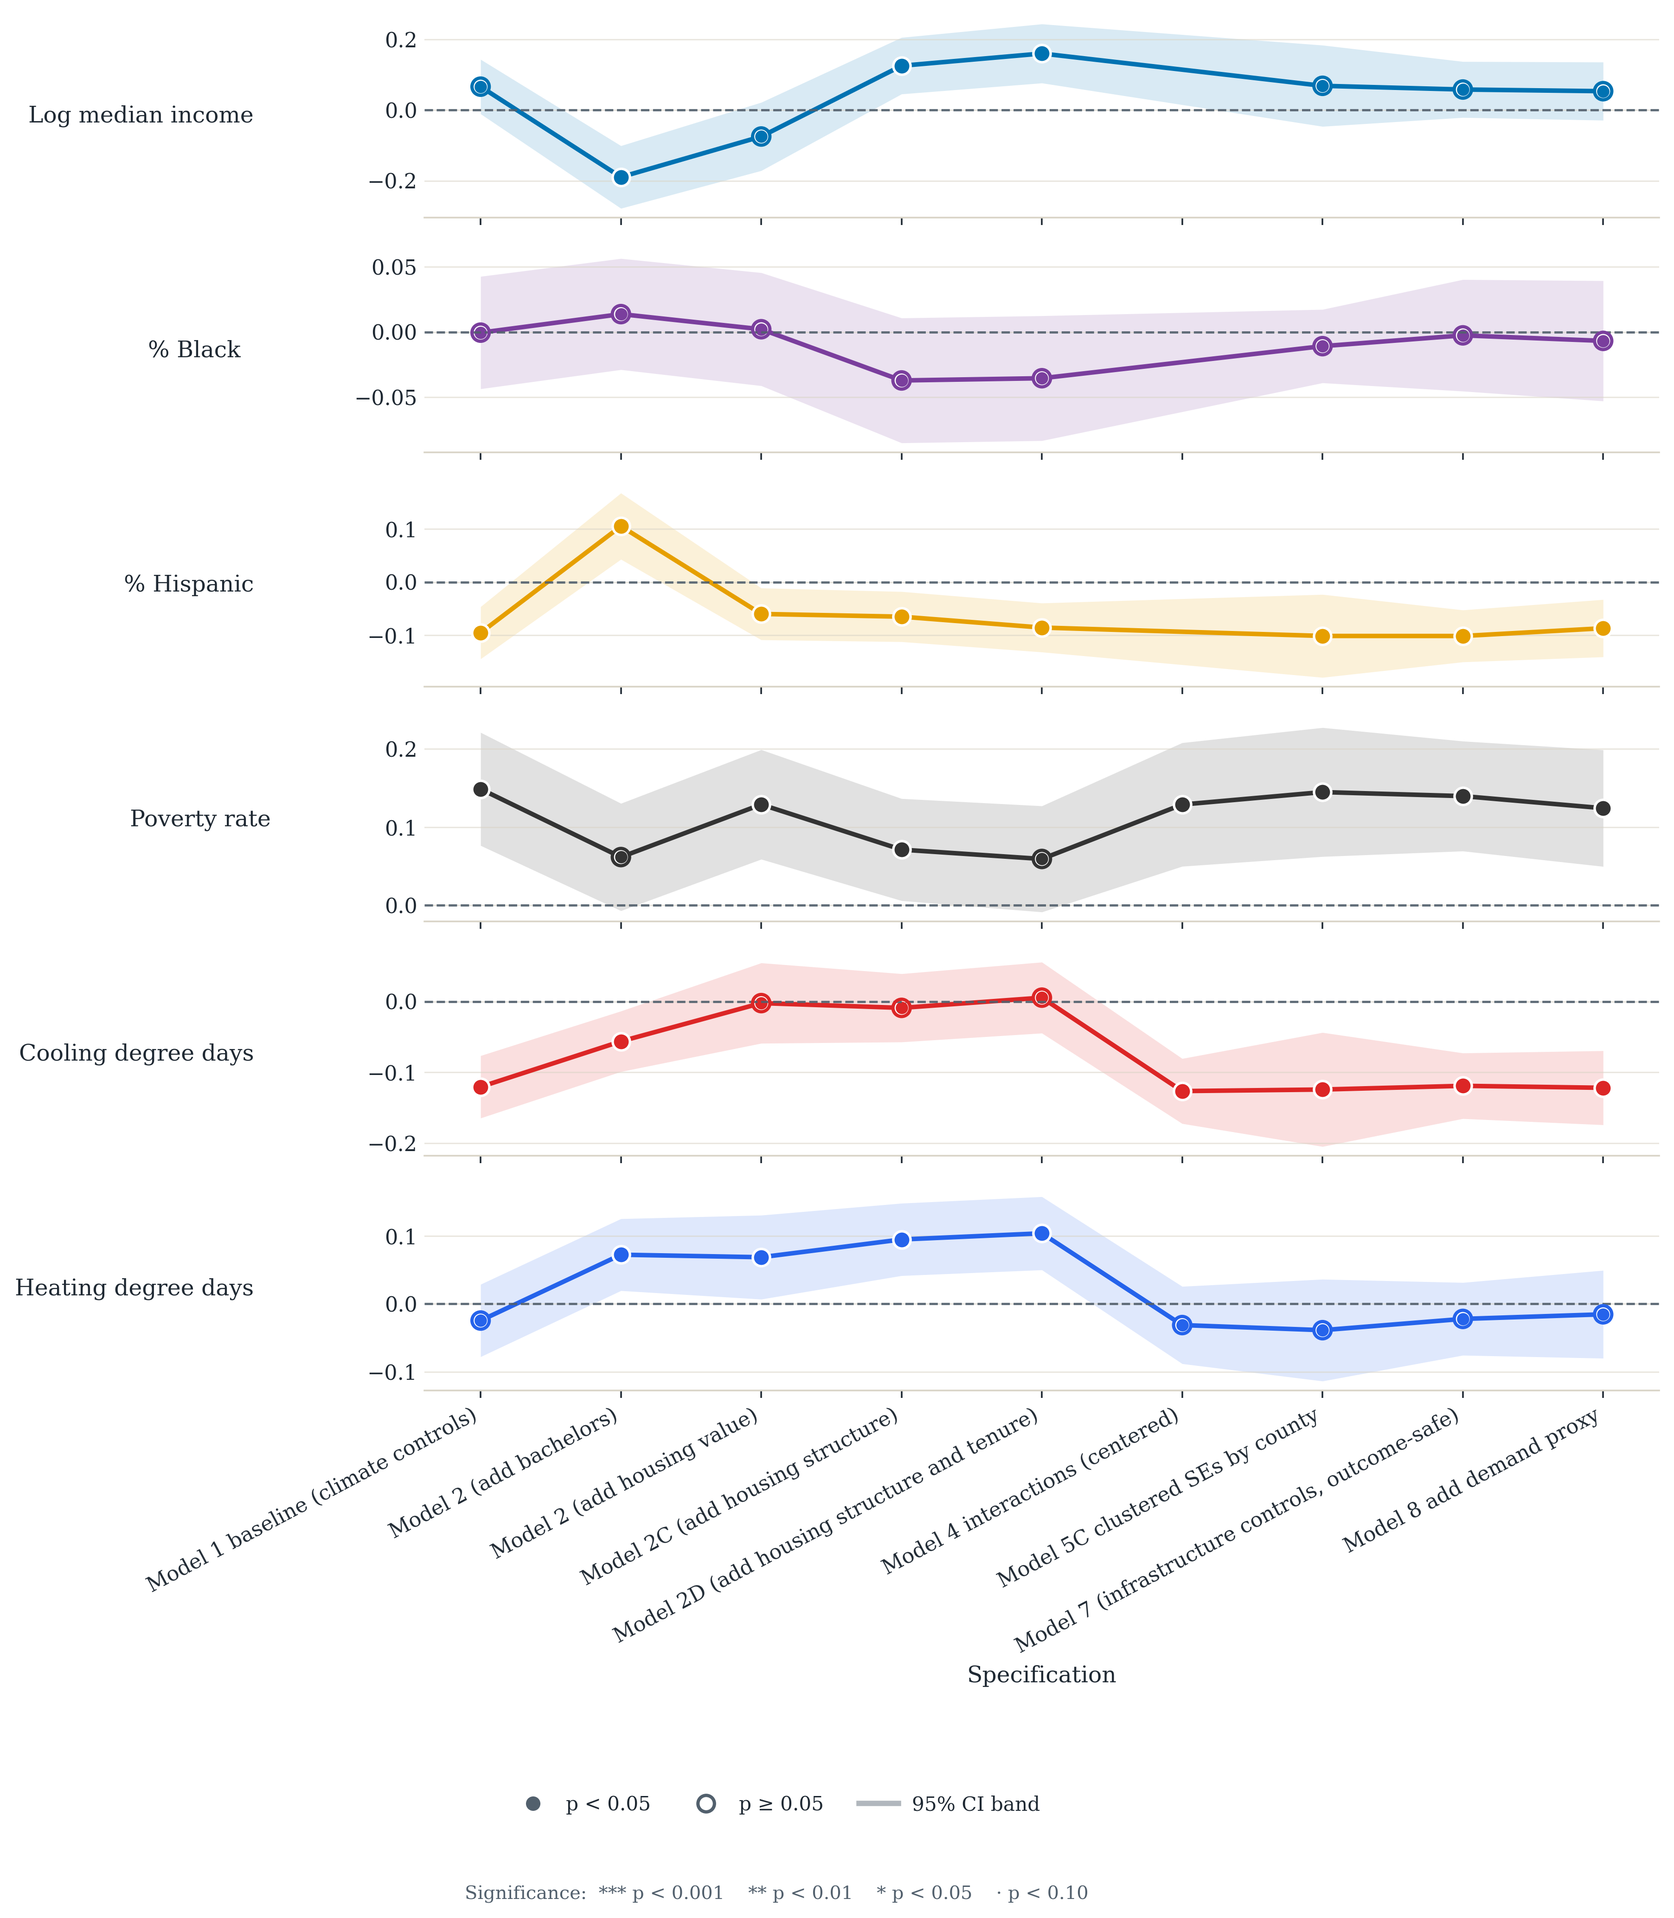
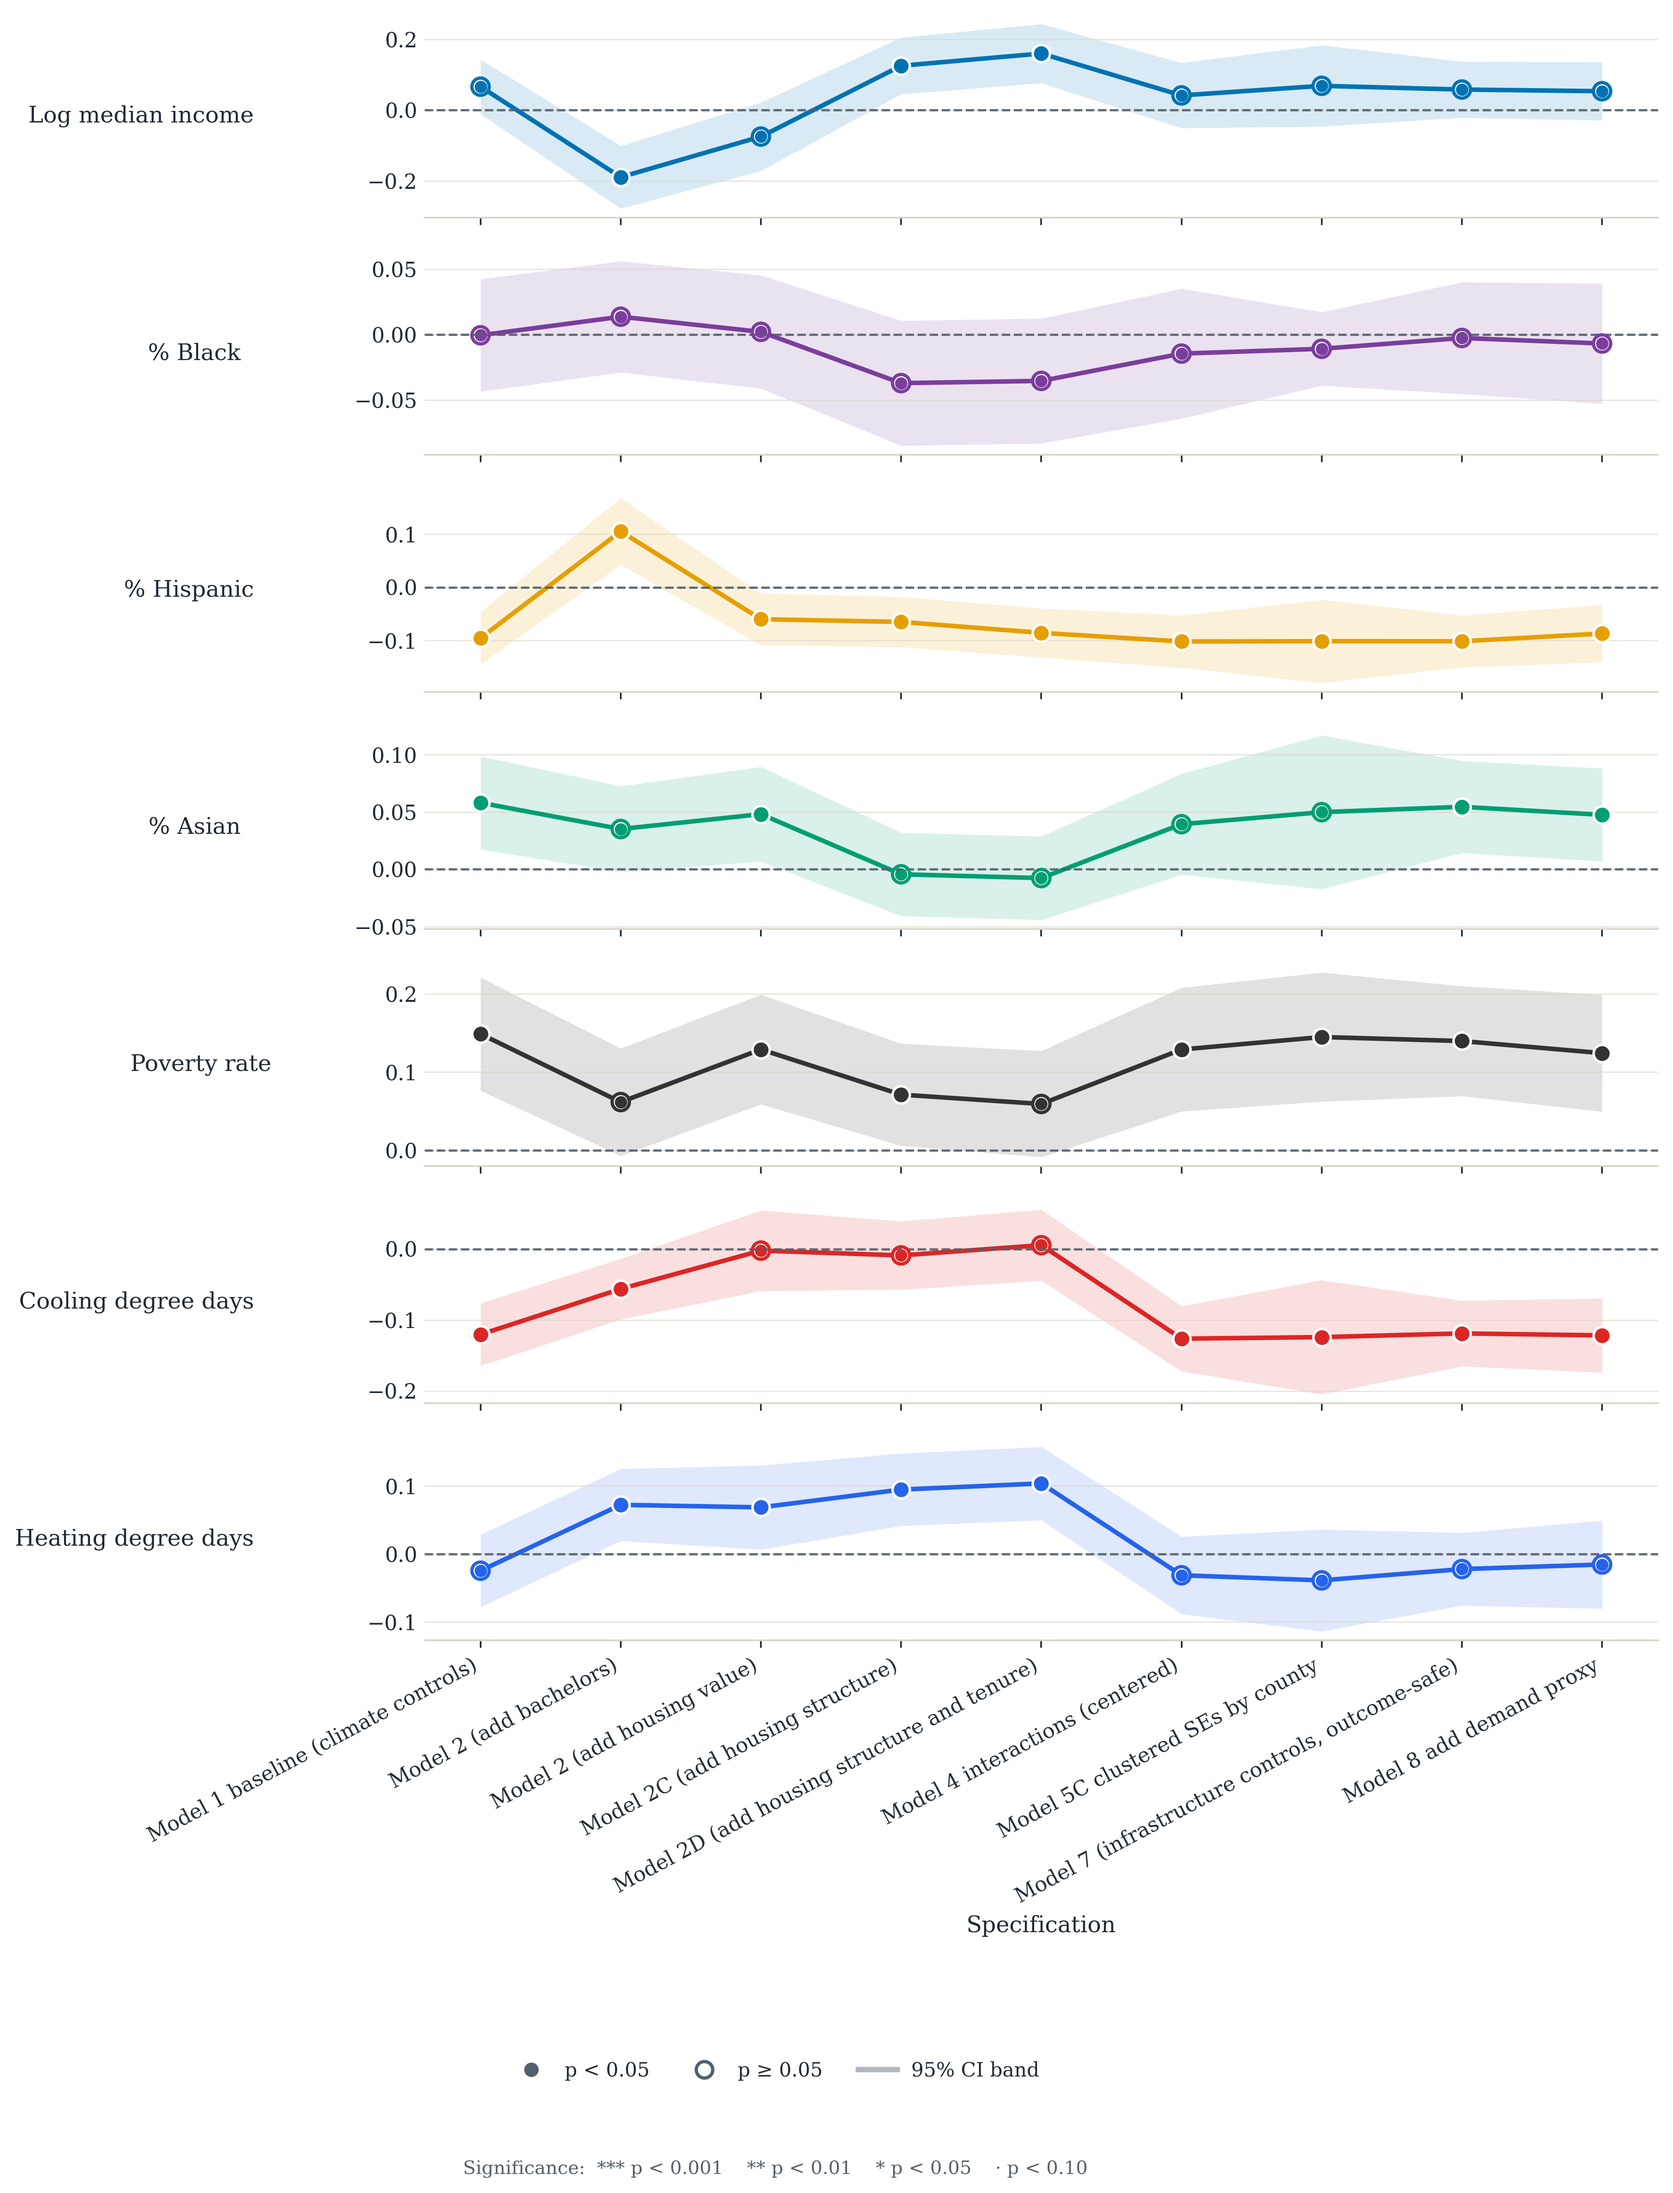
Add % Asian to the coefficient stability ladders
The robustness ladders plotted income, Black and Hispanic shares, and
poverty, but omitted pct_asian even though it is estimated in every model.
Add it to all five outcome ladders and regenerate.

The race rows also had no estimate at Model 4, because the centered
interaction specification names its main effects pct_*_c. The line and
confidence band were drawn straight across that gap, implying an estimate
that did not exist. Map centered main effects back to their base term when
building the ladders, so Model 4 is populated rather than interpolated.
Interaction terms keep their own names, the alias applies only to
plot_stability_from_csvs, and a guard raises if a specification ever
reports both the centered and uncentered form of a term.

diff --git a/scripts/paper_figure_utils.py b/scripts/paper_figure_utils.py
@@ -351,6 +351,22 @@ def plot_dot_whisker_from_csvs(
     return fig
 
 
+def _canonical_ladder_term(term: str, terms_keep: Iterable[str]) -> str:
+    """Map a centered main effect back to its base term for the stability ladders.
+
+    Centered specifications (Model 4) suffix main effects with "_c". Because the model
+    is mean-centered, that coefficient is the effect at the mean of the interacting
+    variable, which is the quantity the uncentered specifications report. Without this
+    alias the race rows have no estimate at Model 4 and the ladder interpolates across
+    the gap. Interaction terms keep their own names and are never plotted as main effects.
+    """
+    if ":" in term:
+        return term
+    if term.endswith("_c") and term[:-2] in set(terms_keep):
+        return term[:-2]
+    return term
+
+
 def plot_stability_from_csvs(
     all_coefs: pd.DataFrame,
     outcome: str,
@@ -364,8 +380,17 @@ def plot_stability_from_csvs(
     sub = all_coefs[
         (all_coefs["outcome"] == outcome)
         & (all_coefs["model"].isin(models_keep))
-        & (all_coefs["term"].isin(terms_keep))
     ].copy()
+    sub["term"] = sub["term"].map(lambda t: _canonical_ladder_term(t, terms_keep))
+    sub = sub[sub["term"].isin(terms_keep)].copy()
+
+    collisions = sub.duplicated(subset=["model", "term"]).sum()
+    if collisions:
+        raise ValueError(
+            f"{outcome}: {collisions} model/term collisions after centering aliases; "
+            "a specification reports both the centered and uncentered form of a term."
+        )
+
     sub["model"] = pd.Categorical(sub["model"], categories=models_keep, ordered=True)
 
     fig, axes = plt.subplots(len(terms_keep), 1, figsize=(12.6, 1.9 * len(terms_keep) + 1.7), sharex=True)

diff --git a/scripts/regenerate_standardized_figures.py b/scripts/regenerate_standardized_figures.py
@@ -71,6 +71,7 @@ ROBUSTNESS_TERMS_BY_OUTCOME = {
         "log_median_household_income",
         "pct_black",
         "pct_hispanic",
+        "pct_asian",
         "poverty_rate",
         "ghi_mean_kwh_m2_day_2023",
     ],
@@ -78,6 +79,7 @@ ROBUSTNESS_TERMS_BY_OUTCOME = {
         "log_median_household_income",
         "pct_black",
         "pct_hispanic",
+        "pct_asian",
         "poverty_rate",
         "cdd65_2023",
         "hdd65_2023",
@@ -86,6 +88,7 @@ ROBUSTNESS_TERMS_BY_OUTCOME = {
         "log_median_household_income",
         "pct_black",
         "pct_hispanic",
+        "pct_asian",
         "poverty_rate",
         "cdd65_2023",
         "hdd65_2023",
@@ -94,6 +97,7 @@ ROBUSTNESS_TERMS_BY_OUTCOME = {
         "log_median_household_income",
         "pct_black",
         "pct_hispanic",
+        "pct_asian",
         "poverty_rate",
         "wind_ws50m_mean_2023",
     ],
@@ -101,6 +105,7 @@ ROBUSTNESS_TERMS_BY_OUTCOME = {
         "log_median_household_income",
         "pct_black",
         "pct_hispanic",
+        "pct_asian",
         "poverty_rate",
         "wind_ws50m_mean_2023",
     ],
